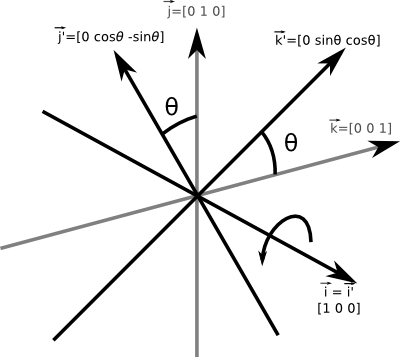
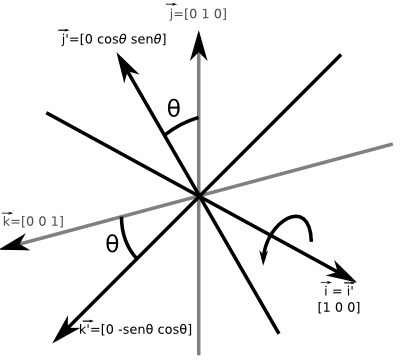
deslocamento angular e orientação

diff --git a/assets/files/mac0420/revisao_algebra_linear.html b/assets/files/mac0420/revisao_algebra_linear.html
@@ -27,6 +27,18 @@
     <h3 class="date">Universidade de São Paulo</h3>
 </section>
 
+<section class="slide level2">
+
+<ul>
+<li>Vamos começar do começo</li>
+</ul>
+<div style="text-align:center;">
+<img src="../../images/bigbang.jpg" style="width:800px"/>
+</div>
+<ul>
+<li>Nem tanto assim!!!</li>
+</ul>
+</section>
 <section><section id="sistemas-de-coordenadas-cartesiano" class="titleslide slide level1"><h1>Sistemas de Coordenadas Cartesiano</h1></section><section id="uma-dimensão" class="slide level2">
 <h1>Uma dimensão</h1>
 <ul>
@@ -1530,7 +1542,62 @@ F(k\vec{a}) &amp;= M(k\vec{a}) \\
 <li>O plano de projeção é perpendicular a <span class="math">\(z\)</span>. E se não for?</li>
 </ul>
 </section></section>
-<section><section id="orientação-e-deslocamento-angular" class="titleslide slide level1"><h1>Orientação e Deslocamento Angular</h1></section></section>
+<section><section id="orientação-e-deslocamento-angular" class="titleslide slide level1"><h1>Orientação e Deslocamento Angular</h1></section><section id="introdução-3" class="slide level2">
+<h1>Introdução</h1>
+<ul>
+<li>Orientação: direção para onde o objeto está apontando</li>
+<li>Na verdade, orientação não é o mesmo que direção.</li>
+</ul>
+<p><img src="../../images/orientation_direction.png" /> <img src="../../images/orientation_orientation.png" /></p>
+</section><section id="introdução-4" class="slide level2">
+<h1>Introdução</h1>
+<ul>
+<li>Posição: Translação a partir da uma posição padrão (ex: origem);</li>
+<li>Orientação: Rotação a partir de uma orientação padrão;</li>
+<li>Quantidade a ser rotacionada: Deslocamento angular;</li>
+<li>Descrever a orientação ⇒ Descrever a orientação angular;</li>
+<li>Orientação e Deslocamento Angular são matematicamente equivalentes (similar a ponto e vetor);</li>
+<li>Orientação é um estado (estático), semelhante a ponto;</li>
+<li>Deslocamento é uma rotação entre duas orientações (dinâmico), semelhante a vetor.</li>
+</ul>
+</section><section id="orientação-como-uma-matriz" class="slide level2">
+<h1>Orientação como uma matriz</h1>
+<ul>
+<li>Uma forma de representar uma orientação é listar os vetores bases de uma coordenada, relativos a outro espaço de coordenadas;</li>
+<li>Esses vetores formam a coluna da matriz;</li>
+<li>Outra foram de ver: a orientação relativa entre dois espaços de coordenadas (pela matriz de rotação)</li>
+</ul>
+<figure>
+<img src="../../images/orientation_matrix.png" />
+</figure>
+</section><section id="orientação-como-uma-matriz-1" class="slide level2">
+<h1>Orientação como uma matriz</h1>
+<ul>
+<li>Vantagens:
+<ul>
+<li>Rotação imediatamente disponível;</li>
+<li>Formato usado pelas APIs;</li>
+<li>Concatenação de múltiplos deslocamentos angulares;</li>
+<li>Deslocamento angular oposto</li>
+</ul></li>
+<li>Desvantagens:
+<ul>
+<li>Mais memória (9 números ao invés de 3);</li>
+<li>Difícil para humanos;</li>
+<li>Susceptível a erros;
+<ul>
+<li>Matriz não válida para rotação;</li>
+<li>Ponto flutuante / Arredondamento / Disco...</li>
+</ul></li>
+<li>Deslocamento angular oposto</li>
+</ul></li>
+</ul>
+</section><section id="ângulos-de-euler" class="slide level2">
+<h1>Ângulos de Euler</h1>
+<ul>
+<li>Uma sequência de 3 rotações ⇒ 1 simples rotação.</li>
+</ul>
+</section></section>
 <section><section id="primitivas-geométricas" class="titleslide slide level1"><h1>Primitivas Geométricas</h1></section></section>
 <section><section id="testes-geométricos" class="titleslide slide level1"><h1>Testes Geométricos</h1></section></section>
     </div>

diff --git a/assets/files/mac0420/revisao_algebra_linear.md b/assets/files/mac0420/revisao_algebra_linear.md
@@ -2,6 +2,12 @@
 % Anderson Tavares
 % Universidade de São Paulo
 
+- Vamos começar do começo
+
+<div style="text-align:center;"><img src="../../images/bigbang.jpg" style="width:800px"/></div>
+
+- Nem tanto assim!!!
+
 # Sistemas de Coordenadas Cartesiano
 
 ## Uma dimensão
@@ -1443,11 +1449,53 @@ $$
 
 # Orientação e Deslocamento Angular
 
+## Introdução 
+
+- Orientação: direção para onde o objeto está apontando
+- Na verdade, orientação não é o mesmo que direção.
+
+![](../../images/orientation_direction.png)
+![](../../images/orientation_orientation.png)
+
+## Introdução
+
+- Posição: Translação a partir da uma posição padrão (ex: origem);
+- Orientação: Rotação a partir de uma orientação padrão;
+- Quantidade a ser rotacionada: Deslocamento angular;
+- Descrever a orientação &#8658; Descrever a orientação angular;
+- Orientação e Deslocamento Angular são matematicamente equivalentes (similar a ponto e vetor);
+- Orientação é um estado (estático), semelhante a ponto;
+- Deslocamento é uma rotação entre duas orientações (dinâmico), semelhante a vetor.
+
+## Orientação como uma matriz
+
+- Uma forma de representar uma orientação é listar os vetores bases de uma coordenada, relativos a outro espaço de coordenadas;
+- Esses vetores formam a coluna da matriz;
+- Outra foram de ver: a orientação relativa entre dois espaços de coordenadas (pela matriz de rotação)
+
+![](../../images/orientation_matrix.png)
+
+## Orientação como uma matriz
+
+- Vantagens:
+    - Rotação imediatamente disponível;
+    - Formato usado pelas APIs;
+    - Concatenação de múltiplos deslocamentos angulares;
+    - Deslocamento angular oposto
+    
+- Desvantagens:
+    - Mais memória (9 números ao invés de 3);
+    - Difícil para humanos;
+    - Susceptível a erros;
+        - Matriz não válida para rotação;
+        - Ponto flutuante / Arredondamento / Disco...
+    - Deslocamento angular oposto
+    
+## Ângulos de Euler
+
+- Uma sequência de 3 rotações &#8658; 1 simples rotação.
+
 # Primitivas Geométricas
 
 # Testes Geométricos
-
-
-
-
 

diff --git a/posts/2014-02-26-webgl-criando-triangulo.md b/posts/2014-02-26-webgl-criando-triangulo.md
@@ -90,7 +90,7 @@ Vamos agora utilizar o canvas e programar sua inicialização para exibir a demo
 
 Todo script deve ser colocado na tag `<script>`. O código pode estar dentro da própria página ou em um arquivo separado. Como esses dois arquivos serão utilizado por todas as lições, deixamo-los em uma pasta um nível acima dos arquivos das lições.
 
-Obtenha o <a target="_blank" href="webgl/glMatrix-0.9.5.min.js">glMatrix</a> e o <a target="_blank" href="webgl/jquery-2.1.0.min.js">jQuery</a>.
+Obtenha o <a target="_blank" href="http://vision.ime.usp.br/~acmt/webgl/hakyll/glMatrix-0.9.5.min.js"s>glMatrix</http://vision.ime.usp.br/~acmt/hakyll/webgl/jquery-2.1.0.min.jsa> e o <a target="_blank" href="http://vision.ime.usp.br/~acmt/hakyll/webgl/jquery-2.1.0.min.js">jQuery</a>.
 
 **Tarefa**: Crie outra tag `script` dessa forma
 
